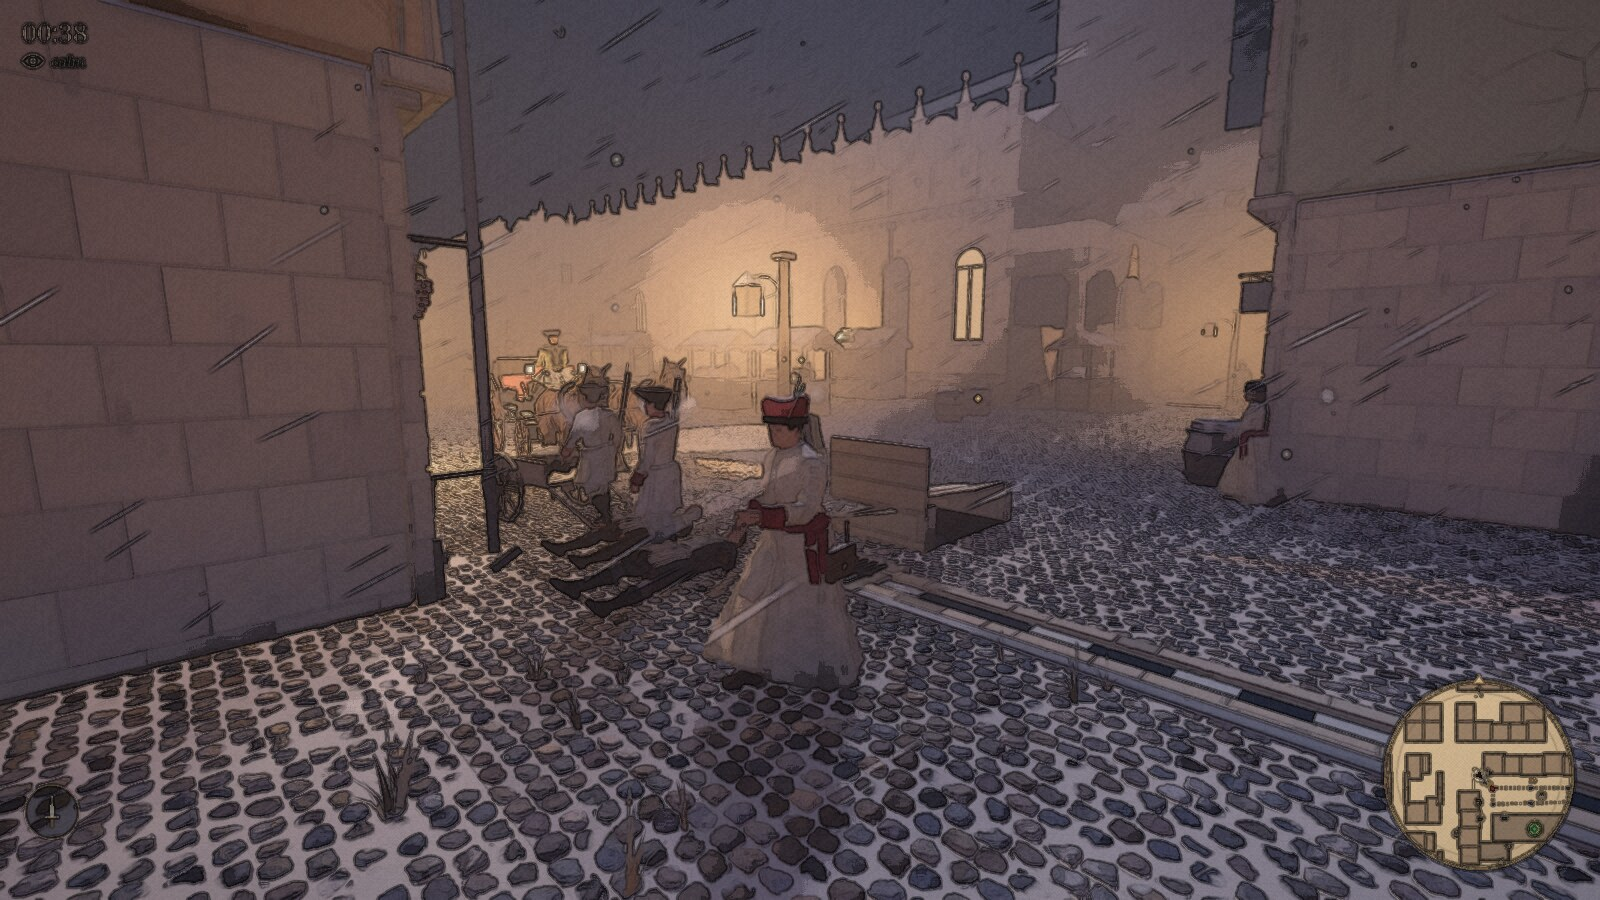
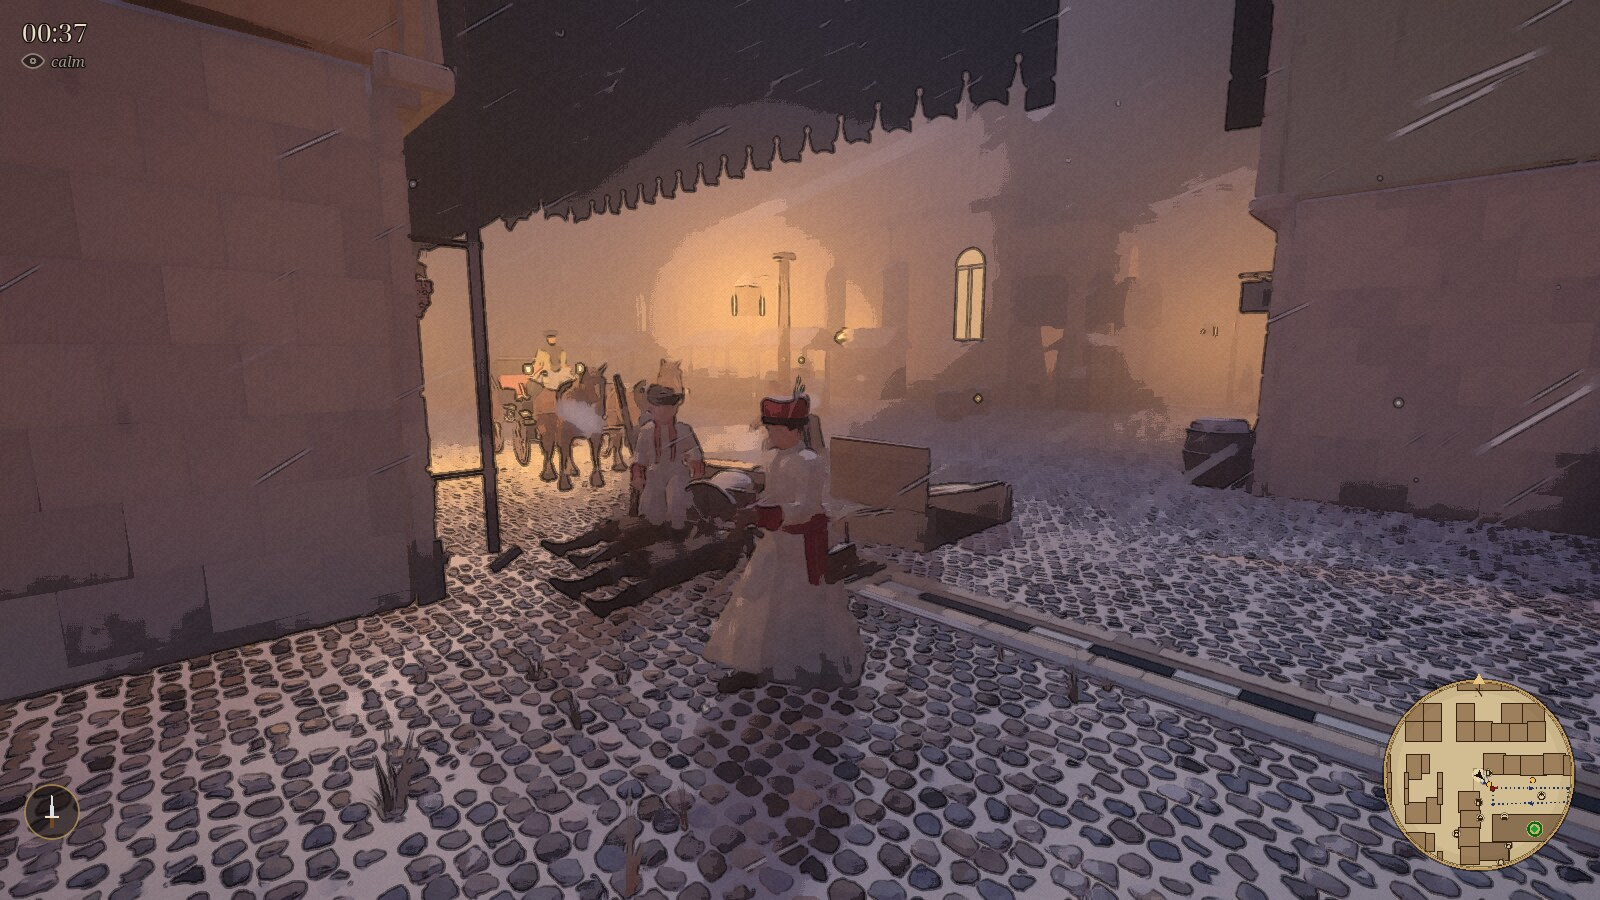
The painted look is the game's default: scripts/core/look.gd runs the oil pass on a canvas layer under every UI layer (Options "Painted look"; --look=off / --look=<name> for review). Ink is thresholded so brick courses and mortar stay paint; hot pixels and a wide bleed pull toward oil-lamp orange. L
Claude-Session: https://claude.ai/code/session_01Q6vJELnFWxcMYeFQFPfFty

diff --git a/docs/GDD.md b/docs/GDD.md
@@ -98,6 +98,17 @@ Old Town (Rynek), Wawel (garrison), Kazimierz, Stradom, Kleparz, Kanonicza/Churc
 - Assets: Blender → glTF 2.0 (.glb) into `assets/models/`. Greybox uses CSG until then.
 - Data: factions/origins/districts as JSON in `data/`, loaded at boot.
 
+## Look (the painted frame)
+The game is drawn as an oil painting with muted tones: a screen-space pass (`assets/shaders/looks/canvas/oil.gdshader`,
+`scripts/core/look.gd`) over the finished 3D frame, under every UI layer. Brush-smoothed surfaces (coarse strokes on
+flat areas, finer where the image is busy so faces and hands stay readable), saturation cut to about 60 % with warm
+lights and cool shadows, lifted blacks like an oil ground showing through, a soft five-band luminance banding for the
+cel read, thin broken ink only at strong edges (brick courses and mortar stay paint), a canvas weave and a light
+vignette. Lamps pull toward oil-lamp orange, the sodium glow of its day, and bleed a little warmth into the dark
+around them. The look gives the prototype's rough edges somewhere to hide and sits with the period; it is a toggle
+in Options ("Painted look") and `--look=<name>` swaps in another shader from the same folder for review
+(`docs/screenshots/looks/`: painterly, ink_wash, cel, puppet, grime were the rejected candidates).
+
 ## Economy lever: propination (beer and spirits)
 Propination (propinacja) was the magnates' and towns' legal monopoly on brewing, distilling and selling drink;
 tenants were obliged to buy from the lord's tavern. In 1795 it was one of the largest incomes of the great families

diff --git a/README.md b/README.md
@@ -19,9 +19,10 @@ godot -e --path .                                           # open the editor
 godot --headless --path . --quit-after 3000 -- --smoke      # headless test: missions, stealth, kit, city, weather, audio
 godot --headless --path . --quit-after 6000 -- --smoke      # ... plus the seven-night campaign smoke
 godot --path . -- --smoke --shot=/dir                       # windowed: in-engine screenshots
+godot --path . -- --smoke --shot=/dir --look=off           # the same without the painted look (or --look=<name> from assets/shaders/looks/canvas/)
 godot --path . -- --smoke --shot-ui=/dir                    # windowed: every UI screen
 ```
-Options: 4x MSAA and temporal AA, bounced light and volumetric mist, fullscreen, VSync, volume, mouse.
+Options: the painted look, 4x MSAA and temporal AA, bounced light and volumetric mist, fullscreen, VSync, volume, mouse.
 The UI fits 1600x900 and 1920x1080.
 
 ## Controls
@@ -87,7 +88,7 @@ volumetric mist, all systems on) on a 32-core machine with a 16 GB GPU:
 | RAM / VRAM | 2.4 GB / 3.9 GB (3.2 GB textures, VRAM-compressed) |
 | Headless CPU frame | ~7 ms (4.5 ms physics) |
 
-Levers if a machine needs them: Options (bounced light and mist, MSAA, TAA), `data/stealth.json` and
+Levers if a machine needs them: Options (painted look, bounced light and mist, MSAA, TAA), `data/stealth.json` and
 `data/window_life.json` budgets, the shadow budget (`scripts/city/shadow_budget.gd`), and the texture caps in
 `tools/import_settings.py`.
 
